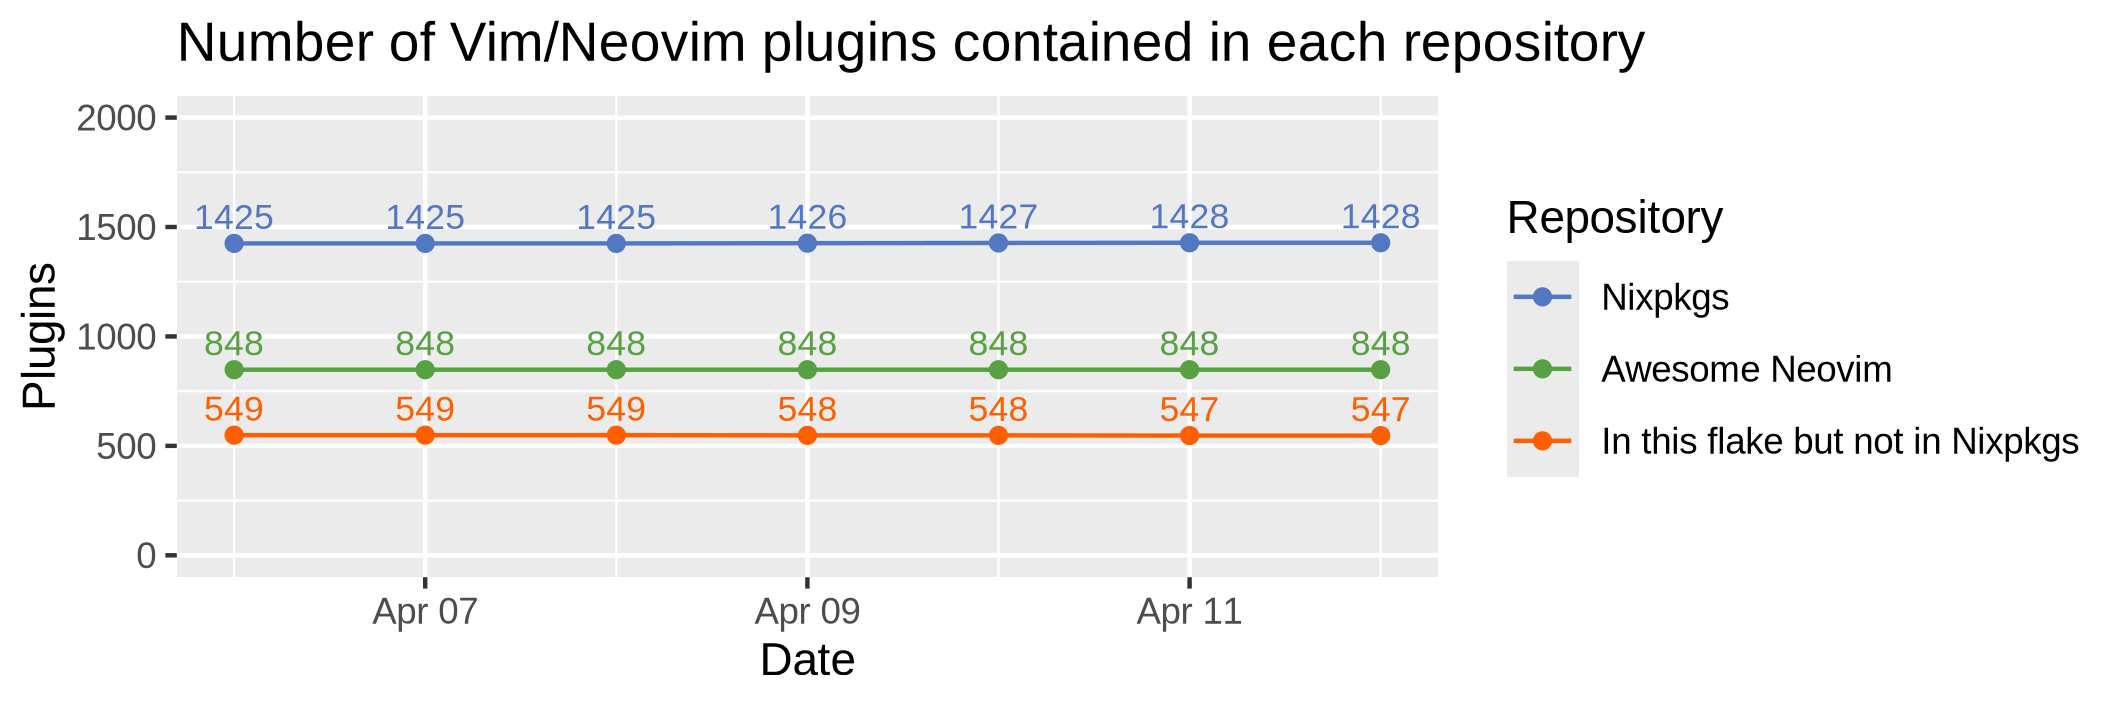
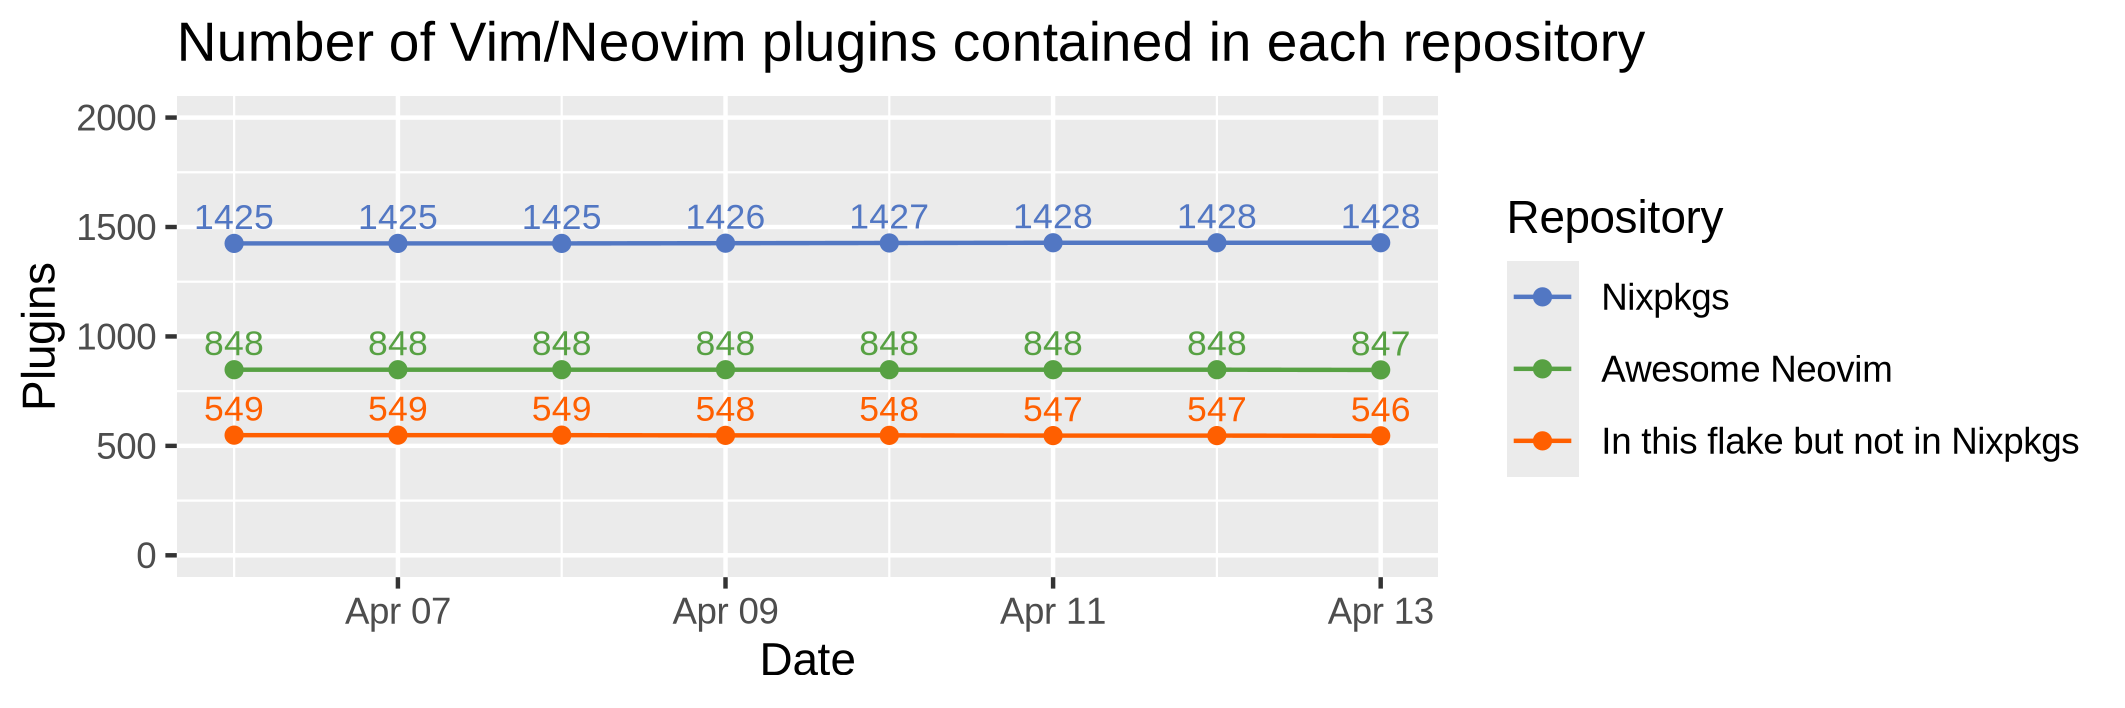
auto: update vim plugins

diff --git a/README.md b/README.md
@@ -8,7 +8,7 @@ Nix flake of Awesome Neovim plugins.
 
 [b1]: https://img.shields.io/github/actions/workflow/status/m15a/flake-awesome-neovim-plugins/check.yml?style=flat-square&logo=github&label=CI
 [b2]: https://github.com/m15a/flake-awesome-neovim-plugins/actions/workflows/check.yml
-[b3]: https://img.shields.io/badge/Awesome_Neovim_plugins-848-57A143?style=flat-square
+[b3]: https://img.shields.io/badge/Awesome_Neovim_plugins-847-57A143?style=flat-square
 [b4]: https://img.shields.io/endpoint?url=https://flakehub.com/f/m15a/flake-awesome-neovim-plugins/badge&style=flat-square
 [b5]: https://flakehub.com/flake/m15a/flake-awesome-neovim-plugins
 
